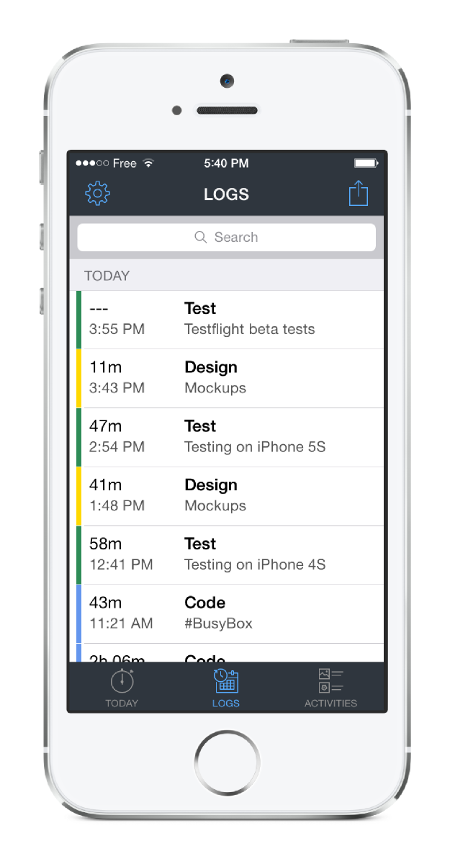
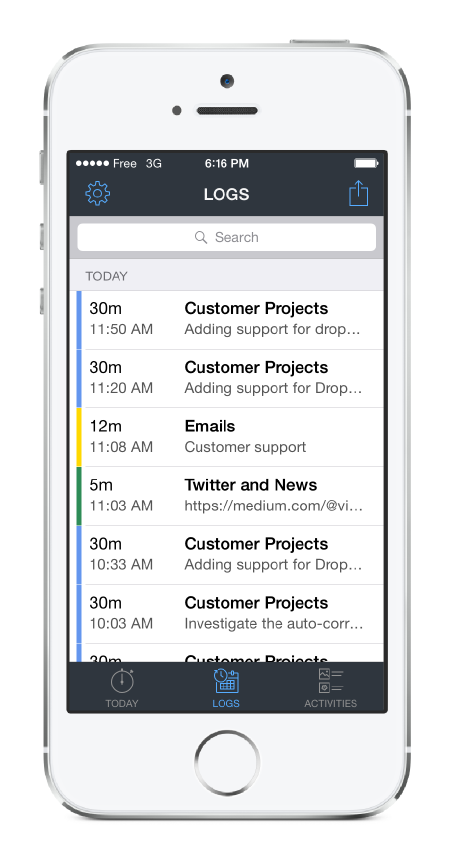
Update screenshots for BusyBox in portfolio

diff --git a/portfolio.html b/portfolio.html
@@ -24,13 +24,13 @@ permalink: /portfolio/
         </div>
         <div class="row">
             <div class="span4 center-image">
-                <img src="/images/busybox.png">
+                <img src="/images/busybox1.png">
             </div>
             <div class="span4 center-image">
                 <img src="/images/busybox2.png">
             </div>
             <div class="span4 center-image">
-                <img src="/images/busybox2.png">
+                <img src="/images/busybox3.png">
             </div>
         </div>
         <div class="row">
@@ -50,7 +50,7 @@ permalink: /portfolio/
         </div>
         <div class="row padding-top">
             <div class="span12">
-                <h3>ScanBee - 65K downloads in 2014 - 4.5 stars average rating</h3>
+                <h3>ScanBee - 60K downloads in 2014 - 4.5 stars average rating</h3>
             </div>
         </div>
         <div class="row">
@@ -79,18 +79,18 @@ permalink: /portfolio/
         </div>
         <div class="row padding-top">
             <div class="span12">
-                <h3>Willio - Regularly reaches number 1 Paid Finance app in France and Norway</h3>
+                <h3>Willio - Number 1 Paid Finance app in France and Norway during the holidays</h3>
             </div>
         </div>
         <div class="row">
             <div class="span4 center-image">
-                <img src="/images/busybox.png">
+                <img src="/images/busybox1.png">
             </div>
             <div class="span4 center-image">
                 <img src="/images/busybox2.png">
             </div>
             <div class="span4 center-image">
-                <img src="/images/busybox2.png">
+                <img src="/images/busybox3.png">
             </div>
         </div>
         <div class="row">
